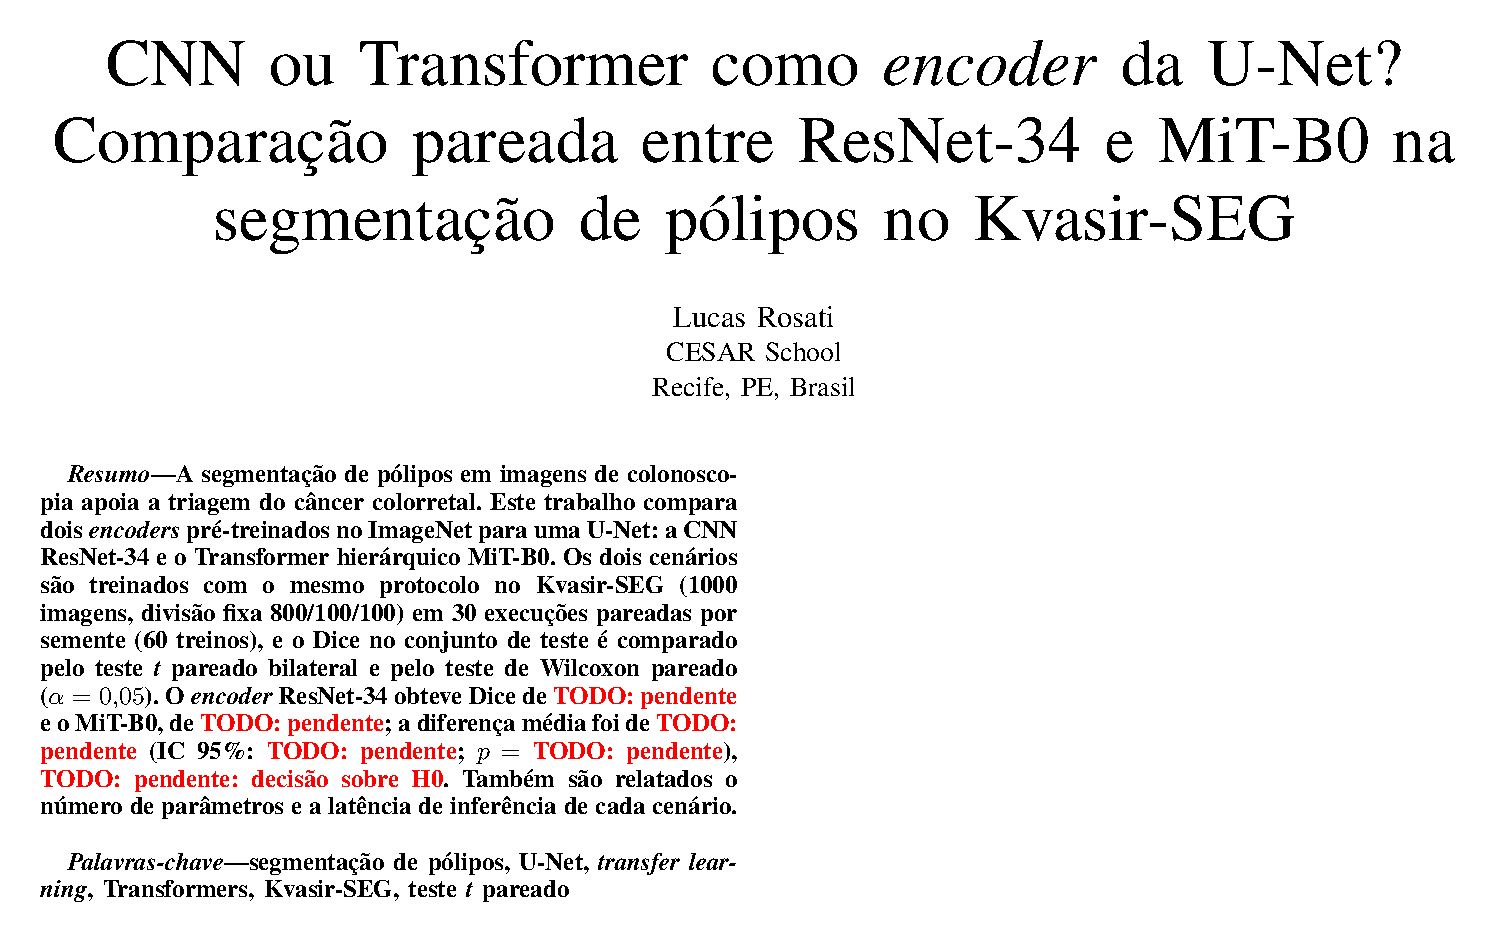
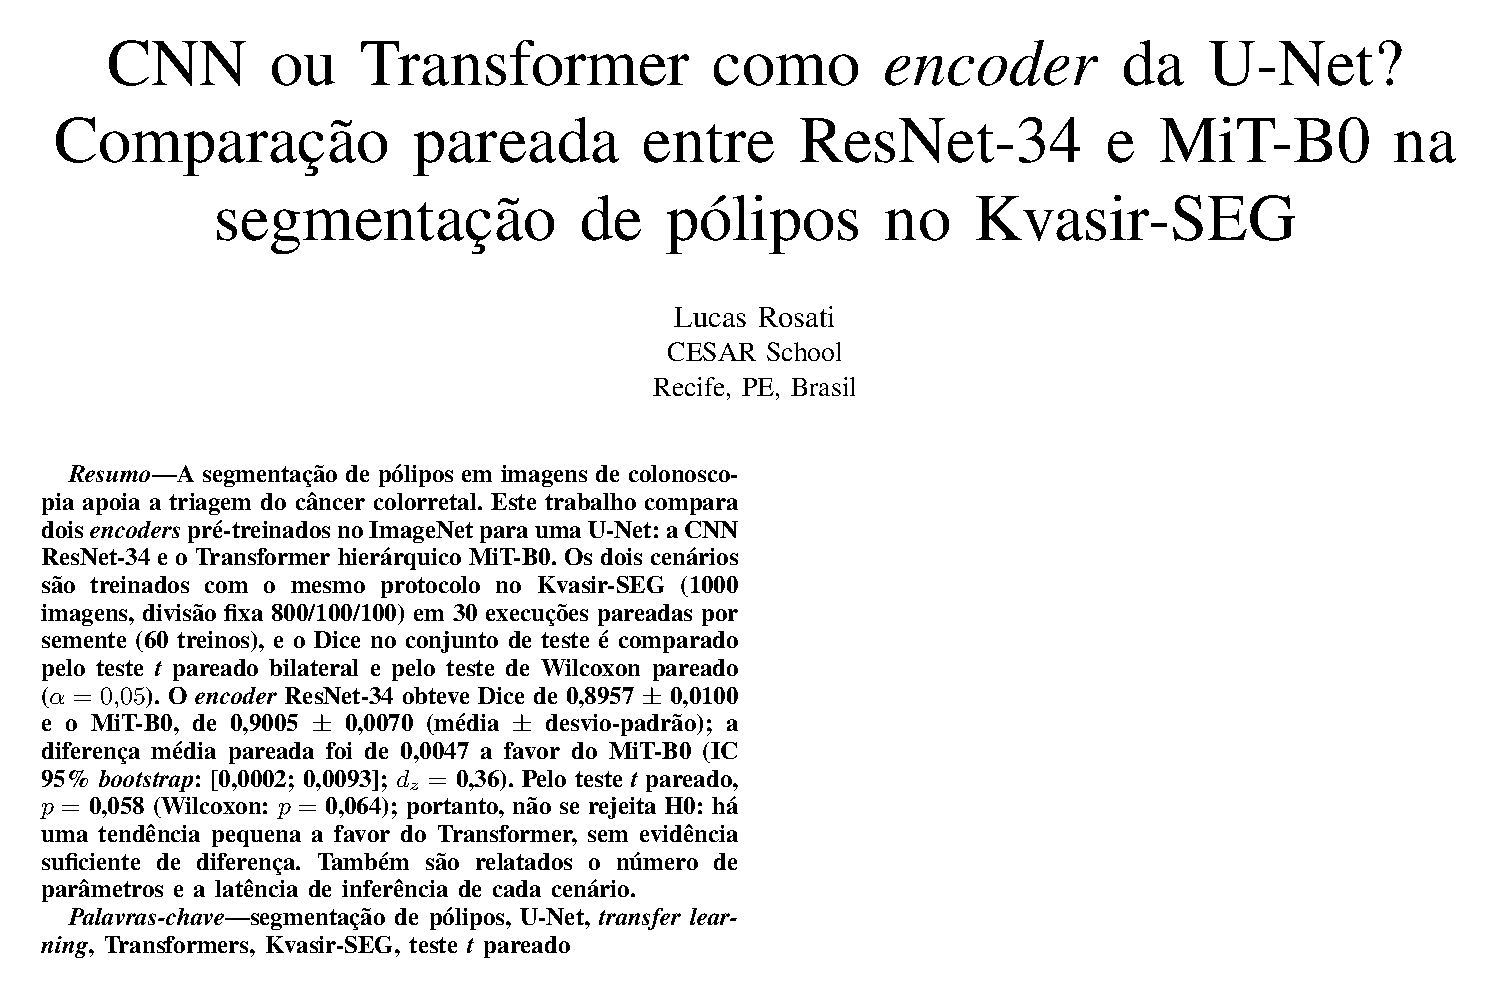
M9a: resumo do paper preenchido com macros geradas por make stats (results/tables/numbers.tex)

diff --git a/paper/main.tex b/paper/main.tex
@@ -1,5 +1,5 @@
 % Paper da 2AV (EL1, CESAR School). Template IEEE conference; IEEEtran.cls v1.8b do CTAN.
-% Números vêm de results/ (M6); enquanto o sweep não termina, ficam como TODO: pendente.
+% Números vêm de results/tables/numbers.tex (gerado por make stats); nada digitado à mão.
 \documentclass[conference]{IEEEtran}
 \usepackage[T1]{fontenc}
 \usepackage[utf8]{inputenc}
@@ -10,6 +10,7 @@
 
 \renewcommand{\IEEEkeywordsname}{Palavras-chave}
 \newcommand{\todo}[1]{\textcolor{red}{TODO: #1}}
+\input{../results/tables/numbers.tex}
 
 \begin{document}
 
@@ -29,9 +30,11 @@ ResNet-34 e o Transformer hierárquico MiT-B0. Os dois cenários são treinados 
 protocolo no Kvasir-SEG (1000 imagens, divisão fixa 800/100/100) em 30 execuções pareadas por
 semente (60 treinos), e o Dice no conjunto de teste é comparado pelo teste \textit{t} pareado
 bilateral e pelo teste de Wilcoxon pareado ($\alpha = 0{,}05$). O \textit{encoder} ResNet-34
-obteve Dice de \todo{pendente} e o MiT-B0, de \todo{pendente}; a diferença média foi de
-\todo{pendente} (IC 95\%: \todo{pendente}; $p = $ \todo{pendente}), \todo{pendente: decisão
-sobre H0}. Também são relatados o número de parâmetros e a latência de inferência de cada
+obteve Dice de \DiceBase{} e o MiT-B0, de \DiceAlt{} (média $\pm$ desvio-padrão); a diferença
+média pareada foi de \DiceDiff{} a favor do MiT-B0 (IC 95\% \textit{bootstrap}: \DiceCI{};
+$d_z = $ \DiceDz{}). Pelo \DiceTest{}, $p = $ \DiceTP{} (Wilcoxon: $p = $ \DiceWP{}); portanto,
+\DiceDecision{}: há uma tendência pequena a favor do Transformer, sem evidência suficiente de
+diferença. Também são relatados o número de parâmetros e a latência de inferência de cada
 cenário.
 \end{abstract}
 

diff --git a/src/seg2av/stats.py b/src/seg2av/stats.py
@@ -89,6 +89,32 @@ def to_latex(df: pd.DataFrame) -> str:
     return "\n".join(lines)
 
 
+def to_macros(df: pd.DataFrame) -> str:
+    """Macros do Dice para o texto do paper (\\input em main.tex), sem número digitado à mão."""
+    r = df.set_index("metric").loc["test_dice"]
+
+    def f(x, k=4):
+        return f"{x:.{k}f}".replace(".", ",")
+
+    test = "teste \\textit{t} pareado" if r.primary_test == "t" else "teste de Wilcoxon pareado"
+    macros = {
+        "DiceBase": f"{f(r.mean_base)} $\\pm$ {f(r.sd_base)}",
+        "DiceAlt": f"{f(r.mean_alt)} $\\pm$ {f(r.sd_alt)}",
+        "DiceDiff": f(r.mean_diff),
+        "DiceCI": f"[{f(r.ci_low)}; {f(r.ci_high)}]",
+        "DiceDz": f(r.d_z, 2),
+        "DiceShapiroP": _p(r.shapiro_p),
+        "DiceTP": _p(r.t_p),
+        "DiceWP": _p(r.wilcoxon_p),
+        "DiceTest": test,
+        "DiceDecision": "rejeita-se H0" if r.reject_h0 else "não se rejeita H0",
+        "NPairs": str(int(r.n)),
+    }
+    lines = ["% gerado por make stats a partir de results/runs.csv; não editar"]
+    lines += [f"\\newcommand{{\\{k}}}{{{v}}}" for k, v in macros.items()]
+    return "\n".join(lines) + "\n"
+
+
 def main() -> None:
     parser = argparse.ArgumentParser()
     parser.add_argument("--runs", type=Path, default=Path("results/runs.csv"))
@@ -98,6 +124,7 @@ def main() -> None:
     args.out_dir.mkdir(parents=True, exist_ok=True)
     df.to_csv(args.out_dir / "stats.csv", index=False)
     (args.out_dir / "stats.tex").write_text(to_latex(df))
+    (args.out_dir / "numbers.tex").write_text(to_macros(df))
     print(df.T.to_string())
 
 

diff --git a/results/tables/numbers.tex b/results/tables/numbers.tex
@@ -1,0 +1,12 @@
+% gerado por make stats a partir de results/runs.csv; não editar
+\newcommand{\DiceBase}{0,8957 $\pm$ 0,0100}
+\newcommand{\DiceAlt}{0,9005 $\pm$ 0,0070}
+\newcommand{\DiceDiff}{0,0047}
+\newcommand{\DiceCI}{[0,0002; 0,0093]}
+\newcommand{\DiceDz}{0,36}
+\newcommand{\DiceShapiroP}{0,225}
+\newcommand{\DiceTP}{0,058}
+\newcommand{\DiceWP}{0,064}
+\newcommand{\DiceTest}{teste \textit{t} pareado}
+\newcommand{\DiceDecision}{não se rejeita H0}
+\newcommand{\NPairs}{30}

diff --git a/tests/test_stats.py b/tests/test_stats.py
@@ -62,3 +62,5 @@ def test_main_writes_tables(tmp_path, monkeypatch):
     assert len(pd.read_csv(out / "stats.csv")) == 2
     tex = (out / "stats.tex").read_text()
     assert r"\begin{tabular}" in tex and "Dice" in tex
+    macros = (out / "numbers.tex").read_text()
+    assert r"\newcommand{\DiceDecision}" in macros and r"\newcommand{\NPairs}{30}" in macros

diff --git a/results/slides/HANDOFF.md b/results/slides/HANDOFF.md
@@ -1,6 +1,6 @@
 # Handoff para a equipe de slides
 
-- Gerado em 20/10/2026 18:47 pelo commit ceae9a030c1b8127e38a10015f25f9307c18c277.
+- Gerado em 20/10/2026 18:49 pelo commit eacd5cc3dc4cfa5b9f2746e7cb83e829b085b109.
 - Código que treinou as runs: a67a0b3.
 - Todos os números estão em `key_numbers.md`. Não recalcule nem arredonde diferente;
   dúvidas vão para o Lucas.
